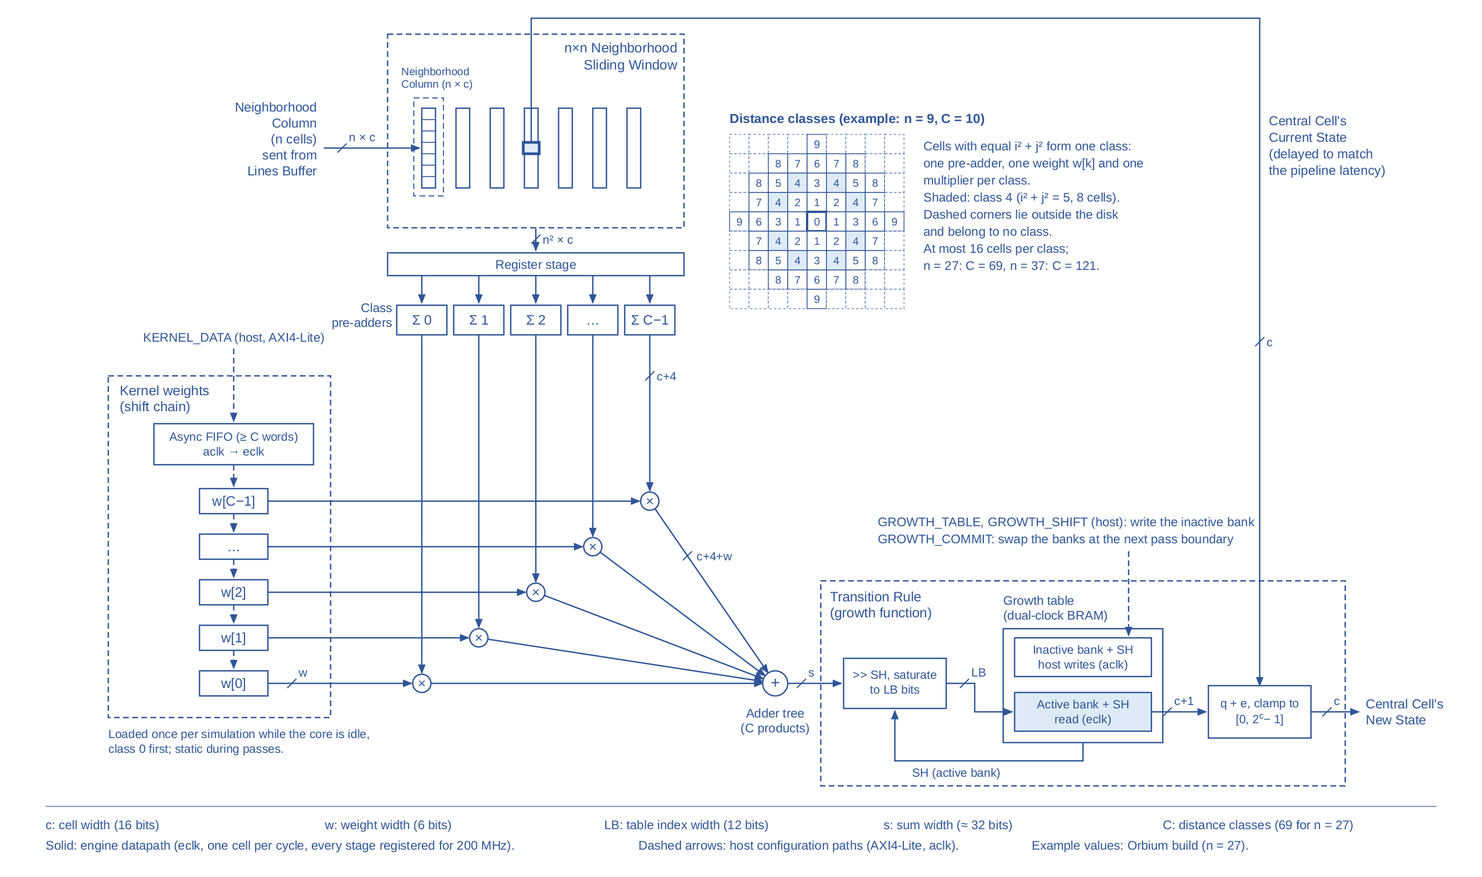
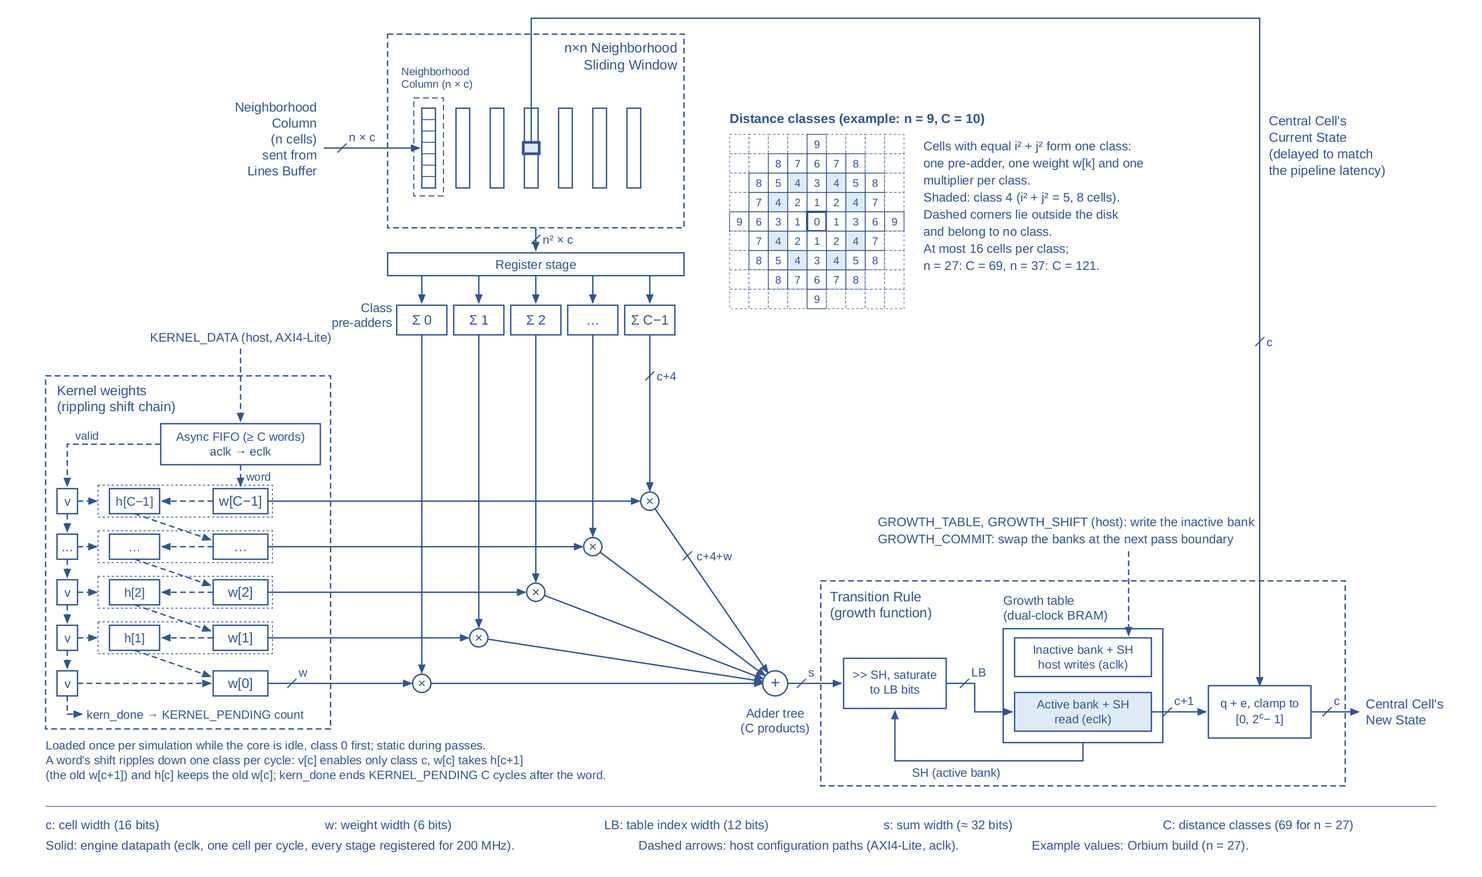
fix: ripple the Lenia weight-chain shift so that no enable spans the chain
One clock enable shared by all C x WW weight registers limited the routed
37 x 37 Lenia datapath to 163.5 MHz (openXC7, xc7a100t), with 5 ns of routing
on that net. The shift now travels down the chain one class per cycle with
the same result: a valid bit per class enables only that class, and class c
takes the previous weight of class c+1 from a hand-off register. The rule
reports each word's arrival at class 0 (kern_done_o, C cycles after the word)
and KERNEL_PENDING counts those pulses; the controller's counters gain one bit
for the words now in flight in the chain. The wave is not reset, so that no
reset net spans the chain either: a reset stops new shifts, the shifts in
flight complete, and their done pulses are dropped for C cycles.

New tests: ripple latency and chain contents for back-to-back and gapped
words (N = 7 and 27), a reset with shifts in flight, a yosys synth_xilinx
check that no net drives the clock enables of more than one class, and
KERNEL_PENDING with a full FIFO and a full chain behind a slower engine
clock. The suite passes (417 tests); all eight configurations, and both Lenia
configurations with their kernels uploaded through KERNEL_DATA, match the
model for 10 full-size generations. Routed with openXC7: 27 x 27 at
264.9 MHz, 37 x 37 at 228.5 MHz.

Changed region(s): [[0.0312, 0.4364, 0.405, 0.9039], [0.0935, 0.374, 0.2181, 0.4052]]

diff --git a/tests/unit/test_rule_lenia.py b/tests/unit/test_rule_lenia.py
@@ -1,6 +1,11 @@
 """Lenia rule datapath (ca_rule_lenia inside ca_engine, sim/tb/tb_lenia.sv)
 against the golden model (design spec 2026-10-31, Section 9.3)."""
+import json
 import random
+import shutil
+import subprocess
+from collections import Counter
+from pathlib import Path
 
 import cocotb
 import numpy as np
@@ -10,6 +15,10 @@ from cocotb.triggers import RisingEdge, Timer
 
 from ca_model import lenia
 from rtl_runner import run_cocotb
+
+ROOT = Path(__file__).resolve().parents[2]
+YOSYS = shutil.which("yosys")
+HAS_SLANG = bool(YOSYS) and (Path(YOSYS).resolve().parents[1] / "share" / "yosys" / "plugins" / "slang.so").exists()
 
 
 class Dut:
@@ -23,6 +32,9 @@ class Dut:
         self.chain = [0] * self.c
         self.banks = [np.zeros(1 << self.lb, dtype=np.int64), np.zeros(1 << self.lb, dtype=np.int64)]
         self.maxq = (1 << self.cw) - 1
+        self.cyc = 0              # clock cycles since the reset release
+        self.presented = []       # cycles with kern_valid_i high
+        self.done = []            # cycles with kern_done_o high
 
     def natural_sh(self):
         wsum = int((np.array(self.chain) * lenia.class_counts(self.n)).sum())
@@ -40,28 +52,49 @@ async def start(dut):
     await RisingEdge(dut.clk_i)
     await RisingEdge(dut.clk_i)
     dut.rst_ni.value = 1
-    got = []
+    d, got = Dut(dut), []
 
     async def collect():
         while True:
             await RisingEdge(dut.clk_i)
             await Timer(1, unit="ns")
+            d.cyc += 1
             if int(dut.vld_o.value):
                 got.append(int(dut.cell_o.value))
+            if int(dut.kern_valid_i.value) and int(dut.rst_ni.value):
+                d.presented.append(d.cyc)
+            if int(dut.kern_done_o.value):
+                d.done.append(d.cyc)
 
     cocotb.start_soon(collect())
-    return Dut(dut), got
+    await RisingEdge(dut.clk_i)      # inputs driven from here on are seen by collect()
+    return d, got
 
 
-async def load_kernel(d, words):
-    """Shift words into the chain (class 0 first); the model chain follows."""
+async def present(d, words, gap=lambda: 0):
+    """Drive one word per kern_valid_i cycle, with gap() idle cycles after each;
+    the model chain shifts once per word."""
+    await RisingEdge(d.dut.clk_i)    # align with clk_i (write_table returns on gt_clk_i)
     for w in words:
         d.dut.kern_data_i.value = int(w)
         d.dut.kern_valid_i.value = 1
         await RisingEdge(d.dut.clk_i)
         d.chain = d.chain[1:] + [int(w)]
+        d.dut.kern_valid_i.value = 0
+        for _ in range(gap()):
+            await RisingEdge(d.dut.clk_i)
     d.dut.kern_valid_i.value = 0
-    await RisingEdge(d.dut.clk_i)
+
+
+async def load_kernel(d, words, gap=lambda: 0):
+    """Shift words into the chain (class 0 first) and wait until the last shift has
+    reached class 0: exactly one kern_done_o pulse per word (the controller's
+    KERNEL_PENDING count), and none after them."""
+    first = len(d.done)
+    await present(d, words, gap)
+    for _ in range(d.c + 4):
+        await RisingEdge(d.dut.clk_i)
+    assert len(d.done) - first == len(words), f"{len(d.done) - first} kern_done_o pulses for {len(words)} words"
 
 
 async def write_table(d, bank, table):
@@ -172,6 +205,44 @@ async def cocotb_lenia_edges(dut):
     await check_windows(d, rng, 0, nat, 80, got)
 
 
+@cocotb.test()
+async def cocotb_lenia_chain_ripple(dut):
+    """A word's shift travels down the chain and reaches class 0 (kern_done_o) C
+    cycles after the word was presented, for words in consecutive cycles and with
+    gaps between them; the chain then holds the last C words."""
+    rng = random.Random(int(cocotb.plusargs.get("seed", "9")))
+    d, got = await start(dut)
+    await write_table(d, 0, random_table(d, rng))
+    await load_kernel(d, random_kernel(d, rng))
+    assert [b - a for a, b in zip(d.presented, d.done)] == [d.c] * d.c
+    await check_windows(d, rng, 0, d.natural_sh(), 80, got)
+    # C + 3 words with gaps of 0 to 3 cycles: the first three shift out of class 0.
+    p0, d0 = len(d.presented), len(d.done)
+    words = [rng.randint(0, (1 << d.ww) - 1) for _ in range(d.c + 3)]
+    await load_kernel(d, words, gap=lambda: rng.randint(0, 3))
+    assert [b - a for a, b in zip(d.presented[p0:], d.done[d0:])] == [d.c] * len(words)
+    assert d.chain == words[3:]
+    await check_windows(d, rng, 0, d.natural_sh(), 80, got)
+
+
+@cocotb.test()
+async def cocotb_lenia_reset_during_load(dut):
+    """A one-cycle reset while shifts are in flight: the shifts complete without
+    kern_done_o pulses (the controller's count restarts at the reset), and the
+    words presented from the first cycle after the reset are counted and loaded."""
+    rng = random.Random(int(cocotb.plusargs.get("seed", "4")))
+    d, got = await start(dut)
+    await write_table(d, 1, random_table(d, rng))
+    await present(d, random_kernel(d, rng)[:5])
+    d0 = len(d.done)
+    dut.rst_ni.value = 0
+    await RisingEdge(dut.clk_i)
+    dut.rst_ni.value = 1
+    await load_kernel(d, random_kernel(d, rng))
+    assert len(d.done) - d0 == d.c, f"{len(d.done) - d0} kern_done_o pulses after the reset for {d.c} new words"
+    await check_windows(d, rng, 1, d.natural_sh(), 80, got)
+
+
 # ---------------------------------------------------------------- pytest ---
 CASES = [(5, 8), (5, 16), (7, 16), (9, 8), (9, 16)]
 
@@ -205,3 +276,36 @@ def test_lenia_powerup_defaults(tmp_path):
 def test_lenia_edges(cw):
     run_cocotb("tb_lenia", "test_rule_lenia", {"N": 5, "CELL_W": cw}, testcase="cocotb_lenia_edges",
                plusargs=[f"+seed={cw}"])
+
+
+@pytest.mark.parametrize("n", [7, 27])
+def test_lenia_chain_ripple(n):
+    run_cocotb("tb_lenia", "test_rule_lenia", {"N": n, "CELL_W": 16}, testcase="cocotb_lenia_chain_ripple",
+               plusargs=[f"+seed={n}"])
+
+
+@pytest.mark.parametrize("n", [7, 27])
+def test_lenia_reset_during_load(n):
+    run_cocotb("tb_lenia", "test_rule_lenia", {"N": n, "CELL_W": 16}, testcase="cocotb_lenia_reset_during_load",
+               plusargs=[f"+seed={n + 1}"])
+
+
+@pytest.mark.skipif(not HAS_SLANG, reason="yosys-slang not available")
+def test_lenia_clock_enables_are_local(tmp_path):
+    """After synthesis for the 7-series, no net drives the clock enables of more than
+    one class (its weight register and the hand-off copy, 2 x WEIGHT_W flip-flops):
+    an enable shared along the weight chain cost 5 ns of routing at 37 x 37."""
+    import gen_filelist
+    n, ww = 9, 6
+    files = gen_filelist.sources_for("tb_lenia", extra_dirs=("sim/tb",))
+    net = tmp_path / "tb_lenia.json"
+    cmd = (f"read_slang -G N={n} -G WEIGHT_W={ww} --top tb_lenia " + " ".join(map(str, files))
+           + f"; synth_xilinx -flatten -top tb_lenia; write_json {net}")
+    r = subprocess.run([YOSYS, "-q", "-m", "slang", "-p", cmd], capture_output=True, text=True, timeout=900)
+    assert r.returncode == 0, (r.stdout + r.stderr)[-3000:]
+    cells = json.loads(net.read_text())["modules"]["tb_lenia"]["cells"].values()
+    loads = Counter(c["connections"]["CE"][0] for c in cells
+                    if c["type"] in ("FDRE", "FDSE", "FDCE", "FDPE", "SRL16E", "SRLC32E")
+                    and isinstance(c["connections"]["CE"][0], int))
+    assert loads, "no flip-flops with a clock enable found"
+    assert max(loads.values()) <= 2 * ww, f"a clock-enable net drives {max(loads.values())} flip-flops"

diff --git a/tests/unit/test_lenia_ctrl.py b/tests/unit/test_lenia_ctrl.py
@@ -12,8 +12,12 @@ PARAMS = {"C": 7, "WEIGHT_W": 6, "LUT_IDX_W": 4, "CELL_W": 8, "SH_DEFAULT": 3}
 STROBES = ("kern_wr_i", "gt_wr_i", "sh_wr_i", "commit_i")
 
 
-async def start(dut):
-    for s in STROBES + ("run_i", "busy_i", "active_i"):
+async def start(dut, done_lat=40, eclk_ns=7):
+    """Reset and clock the controller. A model of the weight chain answers every
+    word that leaves the kernel FIFO with a kern_done_i pulse done_lat eclk cycles
+    later (ca_rule_lenia: C cycles). Returns the words shifted and a list whose
+    only element counts the kern_done_i pulses."""
+    for s in STROBES + ("run_i", "busy_i", "active_i", "kern_done_i"):
         getattr(dut, s).value = 0
     dut.gt_idx_i.value = 0
     dut.wdata_i.value = 0
@@ -22,23 +26,28 @@ async def start(dut):
     dut.erst_ni.value = 0
     await Timer(1, unit="ns")       # inputs settle before the first clock edge
     Clock(dut.aclk_i, 10, unit="ns").start()
-    Clock(dut.eclk_i, 7, unit="ns").start()
+    Clock(dut.eclk_i, eclk_ns, unit="ns").start()
     for _ in range(3):
         await RisingEdge(dut.aclk_i)
     dut.arst_ni.value = 1
     dut.erst_ni.value = 1
     await RisingEdge(dut.aclk_i)
-    shifted = []
+    shifted, dones = [], [0]
 
     async def collect():
+        chain = [0] * done_lat
         while True:
             await RisingEdge(dut.eclk_i)
             await Timer(1, unit="ns")
-            if int(dut.kern_valid_o.value):
+            v = int(dut.kern_valid_o.value)
+            if v:
                 shifted.append(int(dut.kern_data_o.value))
+            chain = chain[1:] + [v]
+            dut.kern_done_i.value = chain[0]
+            dones[0] += chain[0]
 
     cocotb.start_soon(collect())
-    return shifted
+    return shifted, dones
 
 
 async def pulse(dut, strobe, wdata=0, idx=0):
@@ -62,7 +71,9 @@ def sel(dut):
 
 @cocotb.test()
 async def cocotb_kernel_accept_and_pending(dut):
-    shifted = await start(dut)
+    """KERNEL_PENDING (and hold_o) stay set until the last word's shift has reached
+    class 0 (kern_done_i), not merely until it has left the FIFO."""
+    shifted, dones = await start(dut)
     words = [5, 63, 0, 17, 42, 1, 33]
     for w in words:
         await pulse(dut, "kern_wr_i", w)
@@ -76,6 +87,7 @@ async def cocotb_kernel_accept_and_pending(dut):
         assert int(dut.hold_o.value) == 1
     assert not int(dut.kern_pending_o.value), "KERNEL_PENDING never cleared"
     assert shifted == words, f"pending cleared after {shifted}"
+    assert dones[0] == len(words), f"pending cleared after {dones[0]} of {len(words)} kern_done_i pulses"
     assert int(dut.hold_o.value) == 0
     for flag in ("run_i", "busy_i"):
         getattr(dut, flag).value = 1
@@ -83,6 +95,31 @@ async def cocotb_kernel_accept_and_pending(dut):
         await cycles(dut, 40)
         assert shifted == words and int(dut.kern_pending_o.value) == 0, f"word accepted with {flag} set"
         getattr(dut, flag).value = 0
+
+
+@cocotb.test()
+async def cocotb_kernel_pending_full_fifo_and_chain(dut):
+    """Words written faster than the slower engine clock takes them, with the chain's
+    real latency (C cycles): the FIFO fills while C words travel down the chain, and
+    KERNEL_PENDING still clears only after the last kern_done_i pulse."""
+    c = PARAMS["C"]
+    shifted, dones = await start(dut, done_lat=c, eclk_ns=23)
+    seen = []
+
+    async def watch():
+        while True:
+            await RisingEdge(dut.aclk_i)
+            await Timer(1, unit="ns")
+            seen.append((int(dut.kern_pending_o.value), dones[0]))
+
+    cocotb.start_soon(watch())
+    for k in range(4 * c):
+        await pulse(dut, "kern_wr_i", k % 64)
+    await cycles(dut, 40 * c)
+    assert dones[0] == len(shifted) > 2 * c, f"{dones[0]} kern_done_i pulses for {len(shifted)} words"
+    first = next(k for k, (p, _) in enumerate(seen) if p)
+    clear = next(k for k in range(first, len(seen)) if not seen[k][0])
+    assert seen[clear][1] == len(shifted), f"KERNEL_PENDING cleared after {seen[clear][1]} of {len(shifted)} words"
 
 
 @cocotb.test()
@@ -175,7 +212,7 @@ async def cocotb_reset_keeps_configuration(dut):
     assert (sel(dut), int(dut.sh_inactive_o.value)) == before
 
 
-@pytest.mark.parametrize("case", ["cocotb_kernel_accept_and_pending", "cocotb_growth_bank_and_commit",
-                                  "cocotb_reset_keeps_configuration"])
+@pytest.mark.parametrize("case", ["cocotb_kernel_accept_and_pending", "cocotb_kernel_pending_full_fifo_and_chain",
+                                  "cocotb_growth_bank_and_commit", "cocotb_reset_keeps_configuration"])
 def test_lenia_ctrl(case):
     run_cocotb("ca_lenia_ctrl", "test_lenia_ctrl", PARAMS, testcase=case)

diff --git a/docs/architecture.md b/docs/architecture.md
@@ -28,7 +28,7 @@ The framework keeps the parallelisation of the original design: a grid-lines buf
 
 ![The Lenia CA Engine](figures/lenia_engine.png)
 
-The Lenia rule (`rtl/rules/ca_rule_lenia.sv`) keeps one cell per cycle by grouping the window cells into distance classes (cells with equal i^2 + j^2: 69 classes in a 27 x 27 window, 121 in 37 x 37). Every class is pre-added and multiplied once by its own weight register, the products are summed, the sum is shifted to index the active bank of a two-bank growth table, and the entry is added to the centre cell with saturation; every stage is registered for the 200 MHz engine clock. The weights form a shift chain loaded through `KERNEL_DATA` once per simulation, so each weight register sits next to its multiplier. `rtl/ctrl/ca_lenia_ctrl.sv` holds the kernel FIFO, the banks' shifts and the commit: the host writes the inactive bank, and the banks swap in a cycle in which no pass runs, so every pass uses one table and `GROWTH_GEN` records the switch (see `docs/register_map.md`).
+The Lenia rule (`rtl/rules/ca_rule_lenia.sv`) keeps one cell per cycle by grouping the window cells into distance classes (cells with equal i^2 + j^2: 69 classes in a 27 x 27 window, 121 in 37 x 37). Every class is pre-added and multiplied once by its own weight register, the products are summed, the sum is shifted to index the active bank of a two-bank growth table, and the entry is added to the centre cell with saturation; every stage is registered for the 200 MHz engine clock. The weights form a shift chain loaded through `KERNEL_DATA` once per simulation, so each weight register sits next to its multiplier; each word's shift travels down the chain one class per cycle, so that no enable signal spans the chain, and `KERNEL_PENDING` clears once the last shift has reached class 0. `rtl/ctrl/ca_lenia_ctrl.sv` holds the kernel FIFO, the banks' shifts and the commit: the host writes the inactive bank, and the banks swap in a cycle in which no pass runs, so every pass uses one table and `GROWTH_GEN` records the switch (see `docs/register_map.md`).
 
 ## Boundary modes
 
@@ -46,9 +46,10 @@ The controller starts a pass when RUN is set and a frame request is pending, fro
 * Display boards: `rtl/top/ca_display_system.sv` combines the core with `rtl/consumers/ca_video_out.sv` (async FIFO, video timing, palette, frame request in vertical blanking), the UART bridge (`rtl/io/ca_uart_bridge.sv`) and the buttons (`rtl/io/ca_buttons_axil.sv`) behind pulp `axi_mux` and `axi_lite_mux`. `boards/nexys4ddr/` adds only clocks, the DDR2 MIG and pins.
 * PCIe hosts: `boards/xdma_template/` instantiates the core next to XDMA in memory-mapped mode; the host moves frames by DMA and requests passes through the register file.
 
+
 ## Clocks and resets
 
-`aclk` runs the AXI side (registers, controller, reader, writer, line-buffer write port, consumer stream); `eclk` runs the engine. Resets are active low and synchronous; each domain synchronises the external reset with `rtl/common/ca_reset_sync.sv` (asserted from power-up), and only control and valid state is reset (data-path registers and delay lines are not). Rule parameters cross with a toggle handshake at pass start (`rtl/top/ca_params_cdc.sv`).
+`aclk` runs the AXI side (registers, controller, reader, writer, line-buffer write port, consumer stream); `eclk` runs the engine. Resets are active low and synchronous; each domain synchronises the external reset with `rtl/common/ca_reset_sync.sv` (asserted from power-up), and only control and valid state is reset (data-path registers and delay lines are not). The one exception is the shift wave of the Lenia weight chain: resetting its C valid bits would recreate a reset net that spans the chain, so a reset only stops new shifts from entering, the shifts in flight complete, and their done pulses are dropped for C cycles after the reset, so that the controller's word count, which restarts at the reset, stays exact. Rule parameters cross with a toggle handshake at pass start (`rtl/top/ca_params_cdc.sv`).
 
 ## Verification
 

diff --git a/docs/verification.md b/docs/verification.md
@@ -49,7 +49,7 @@ Design spec `docs/superpowers/specs/2026-10-31-lenia-rule-design.md`, implementa
 
 * **Golden model** (`tests/model/test_lenia.py`): the FFT sum equals the per-cell reference in all four boundary modes for N = 5, 7, 9, 8- and 16-bit cells and 4- and 8-bit weights; a generation equals the per-window reference for SH = 0, 3 and 40, including saturation; the distance-class counts (69, 78 and 121 classes for N = 27, 29, 37) and the creatures' quantised kernels (Orbium 64 non-zero classes over 496 cells, Hydrogeminium 106 over 904) are pinned. A 1920x1080 generation takes about 0.2 s.
 * **Precision** (`tests/model/test_lenia_precision.py`, 500 steps against the floating-point update of the Lenia tutorial, 16-bit cells, 6-bit weights, 12-bit table index): Orbium (128 x 128) mean mass error 0.23 %, speed ratio 1.0014, size ratio 1.0004; Hydrogeminium (192 x 192) mean mass error 0.53 %, speed ratio 0.990, size ratio 0.998. The thresholds are 3 % for mass, 2 % (Orbium) and 3 % (Hydrogeminium) for speed and size.
-* **RTL unit tests** (`tests/unit/test_rule_lenia.py`, `tests/unit/test_lenia_ctrl.py`): the datapath equals the model on random windows for N = 5, 7, 9 and 27, with random kernels and tables in both banks, power-up defaults, SH and saturation edges and the chain order; the configuration controller accepts kernel words only when idle, holds passes until the last word is shifted, writes only the inactive bank, ignores indices beyond the table and writes while a commit is pending, swaps when no pass runs (also with fast-forward passes queued) and keeps its configuration over a reset.
+* **RTL unit tests** (`tests/unit/test_rule_lenia.py`, `tests/unit/test_lenia_ctrl.py`): the datapath equals the model on random windows for N = 5, 7, 9 and 27, with random kernels and tables in both banks, power-up defaults, SH and saturation edges and the chain order; each word's shift reaches class 0 exactly C cycles after the word, for words in consecutive cycles and with gaps, and a reset with shifts in flight produces no stray done pulses while the words presented from the first cycle after it are counted; after synthesis for the 7-series (yosys `synth_xilinx`), no net drives the clock enables of more than one class. The configuration controller accepts kernel words only when idle, holds passes until the last word's shift has reached class 0 (also with a full FIFO and C words in the chain behind a slower engine clock), writes only the inactive bank, ignores indices beyond the table and writes while a commit is pending, swaps when no pass runs (also with fast-forward passes queued) and keeps its configuration over a reset.
 * **Core** (`tests/core/test_core_lenia.py`): every generation bit-exact with uploaded random kernels and tables (toroidal and zero edges), with the power-up kernel and table (Orbium on 128 x 128), with 8-bit cells, with memory stalls, with a growth commit while passes run (host-paced, consumer-paced and with fast-forward passes; the table schedule follows GROWTH_GEN), with the commit moved cycle by cycle across a pass start, with a kernel write during a pass (ignored) and with no pass starting while a kernel load is pending; an unsupported weight width fails at elaboration.
 * **Registers** (`tests/sim/test_ctrl.py`): 16-bit decoding (0x0104 is unmapped, 0x10004 aliases CTRL) and, in a core built for another rule, the Lenia registers read 0, ignore writes and raise no strobe.
 * **Static**: `make lint` (including the Lenia tops), `make lint-boards` for `hodgepodge29` and `lenia_orbium`, and slang elaboration of both board tops with both configurations are clean.

diff --git a/docs/register_map.md b/docs/register_map.md
@@ -60,6 +60,6 @@ The display requests a pass every frame, so with RUN set passes run back to back
 
 A Lenia core computes, for every cell, `S = sum over distance classes c of w[c] * (sum of the cells of class c)`, reads the active growth-table bank at `min(S >> SH, 2^LUT_IDX_W - 1)` and adds the entry to the cell with saturation (design spec `docs/superpowers/specs/2026-10-31-lenia-rule-design.md`, Section 5). `model/ca_model/lenia.py` computes the weights and tables, and `CAController.load_kernel()` and `set_growth()` implement the procedures below. RESET_STATE leaves the kernel and the tables unchanged; at power-up both hold the configuration's defaults, so the default creature runs after a seed upload alone.
 
-**Kernel (once per simulation).** Clear RUN, wait until BUSY is clear, write the C class weights to `KERNEL_DATA` in class order (class 0 first) and poll `STATUS` until KERNEL_PENDING is clear. The weights shift into a chain of registers next to the class multipliers; words written while RUN is set or a pass is busy are ignored, and no pass starts while KERNEL_PENDING is set. Because the table folds in the kernel normalisation, write a new growth table after every kernel change.
+**Kernel (once per simulation).** Clear RUN, wait until BUSY is clear, write the C class weights to `KERNEL_DATA` in class order (class 0 first) and poll `STATUS` until KERNEL_PENDING is clear. The weights shift into a chain of registers next to the class multipliers; each word's shift travels down the chain one class per engine cycle, and KERNEL_PENDING clears once the last word's shift has reached class 0 (C engine cycles after the word leaves the clock-crossing FIFO). Words written while RUN is set or a pass is busy are ignored, and no pass starts while KERNEL_PENDING is set. A reset during an upload drops the words still in the FIFO, so write the whole kernel again afterwards. Because the table folds in the kernel normalisation, write a new growth table after every kernel change.
 
 **Growth function (live).** Wait until GROWTH_PENDING is clear, write `GROWTH_SHIFT` and the `2^LUT_IDX_W` entries of `GROWTH_TABLE` (they go to the inactive bank), then write `GROWTH_COMMIT`. The banks swap in the first cycle in which no pass is running, so a pass never mixes two tables and a commit never delays a pass; GROWTH_PENDING then clears and `GROWTH_GEN` holds the generation count at the swap. Generations up to GROWTH_GEN were computed with the previous table and every later one with the new table, which is the schedule a replay in the model uses. Table and shift writes are ignored while a commit is pending, and a second commit while one is pending is ignored.

diff --git a/docs/superpowers/specs/2026-10-31-lenia-rule-design.md b/docs/superpowers/specs/2026-10-31-lenia-rule-design.md
@@ -82,6 +82,7 @@ Rules for 200 MHz: every adder level and the shifter stages are registered, the 
 * Path: AXI4-Lite writes to `KERNEL_DATA` (aclk) enter an asynchronous FIFO (the existing `ca_async_fifo`) and each word popped in the engine domain shifts the chain once. `STATUS.KERNEL_PENDING` is set while words are in flight. The FIFO holds at least `C` words (the next power of two), so a whole kernel written back to back over PCIe never overflows it.
 * Writes are accepted only while no pass is active and RUN is clear; otherwise they are ignored. The controller starts no pass while `KERNEL_PENDING` is set, so no pass sees a partial kernel.
 * Power-up values are the configuration's default kernel (FPGA register initial values from the generated configuration), so the default creature runs without a kernel load. Reset does not change the weights, consistent with the reset style (data registers are not reset).
+* Amendment (2026-11-01, timing closure): one shared shift enable for all `C × WW` weight registers limited the routed 37 x 37 datapath to 163.5 MHz (5 ns of routing on that net). The shift now travels down the chain one class per cycle with the same result: a valid bit per class enables only that class, and class `c` takes the weight that class `c + 1` held before its own shift, kept in a hand-off register. The chain reports each word's arrival at class 0 (`kern_done`, `C` cycles after the word), and `KERNEL_PENDING` counts those pulses instead of the words leaving the FIFO; its counters gain one bit, since up to `C` further words can now be in flight. The wave's valid bits are not reset, so that no reset net spans the chain: a reset stops new shifts only, the shifts in flight complete, and their `kern_done` pulses are dropped for `C` cycles after the reset.
 
 ### 6.3 Growth table
 
